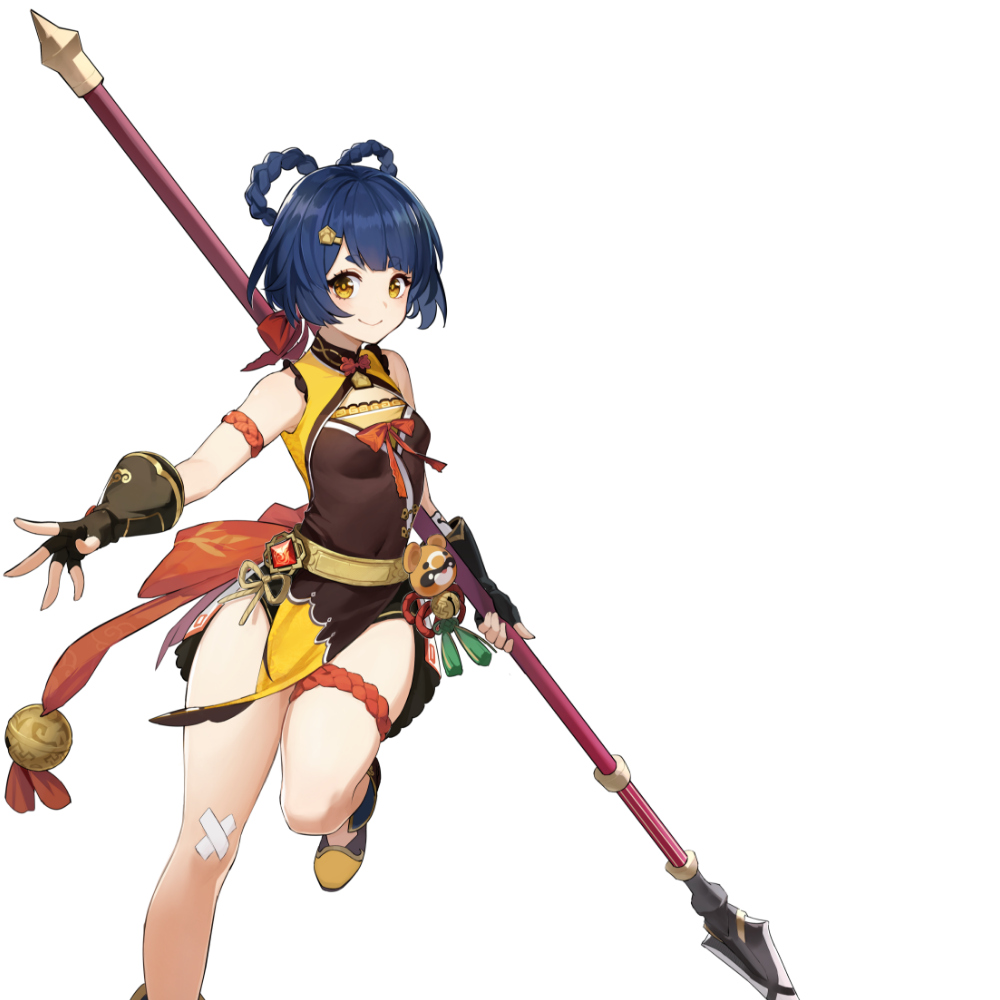
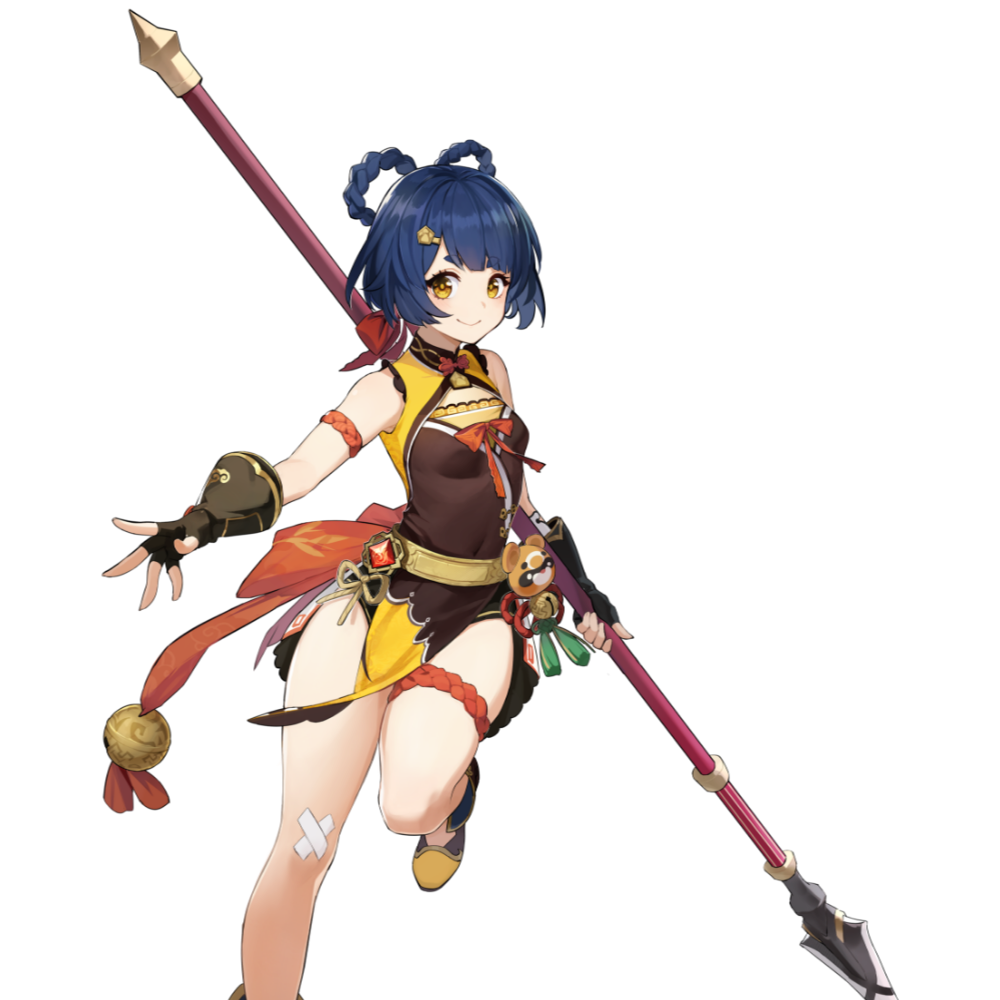
[Updated] Visual component animation should be centered now, depending on images width.

Changed region(s): [[0.0, 0.0, 0.899, 1.0]]

diff --git a/src/App.jsx b/src/App.jsx
@@ -12,6 +12,7 @@ import './Responsive.scss';
 import VisualAndPostsTemplate from './templates/VisualAndPosts';
 import indispensable from './data/indispensables';
 import paimon from './assets/images/char/paimon.png';
+// import xiao from './assets/images/char/xiao.png';
 import tartaglia from './assets/images/char/tartaglia.png';
 import dailies from './data/dailies';
 import newsData from './data/news';
@@ -43,7 +44,7 @@ function App() {
             <Reactions />
           </Route>
           <Route path="/news">
-            <VisualAndPostsTemplate visual={tartaglia} visualPosition="left" posts={newsData.posts} />
+            <VisualAndPostsTemplate visual={tartaglia} posts={newsData.posts} />
           </Route>
         </Switch>
       </Router>

diff --git a/src/components/Visual.scss b/src/components/Visual.scss
@@ -3,21 +3,17 @@
   pointer-events: none;
   width: 50%;
   height: 100%;
+
   img.right {
     position: absolute;
-    right: 0;
+    right: 50%;
     bottom: 0;
+    transform: translate3d(65%, 0, 0);
   }
   img.left {
     position: absolute;
-    left: 0;
+    left: 50%;
     bottom: 0;
-  }
-  img.xiao {
-    position: absolute;
-    left: -40%;
-    bottom: 0;
-    animation-duration: 1.5s;
-    animation-fill-mode: forwards;
+    transform: translate3d(-65%, 0, 0);
   }
 }

diff --git a/src/App.scss b/src/App.scss
@@ -161,7 +161,7 @@ p {
 
 @keyframes charAnimationRight {
   0% {
-    transform: translateX(30%);
+    transform: translate3d(100%, 0, 0);
     opacity: 0;
   }
   100% {
@@ -171,10 +171,11 @@ p {
 
 @keyframes charAnimationLeft {
   0% {
-    transform: translateX(-20%);
+    transform: translate3d(-100%, 0, 0);
     opacity: 0;
   }
   100% {
     opacity: 1;
   }
 }
+
